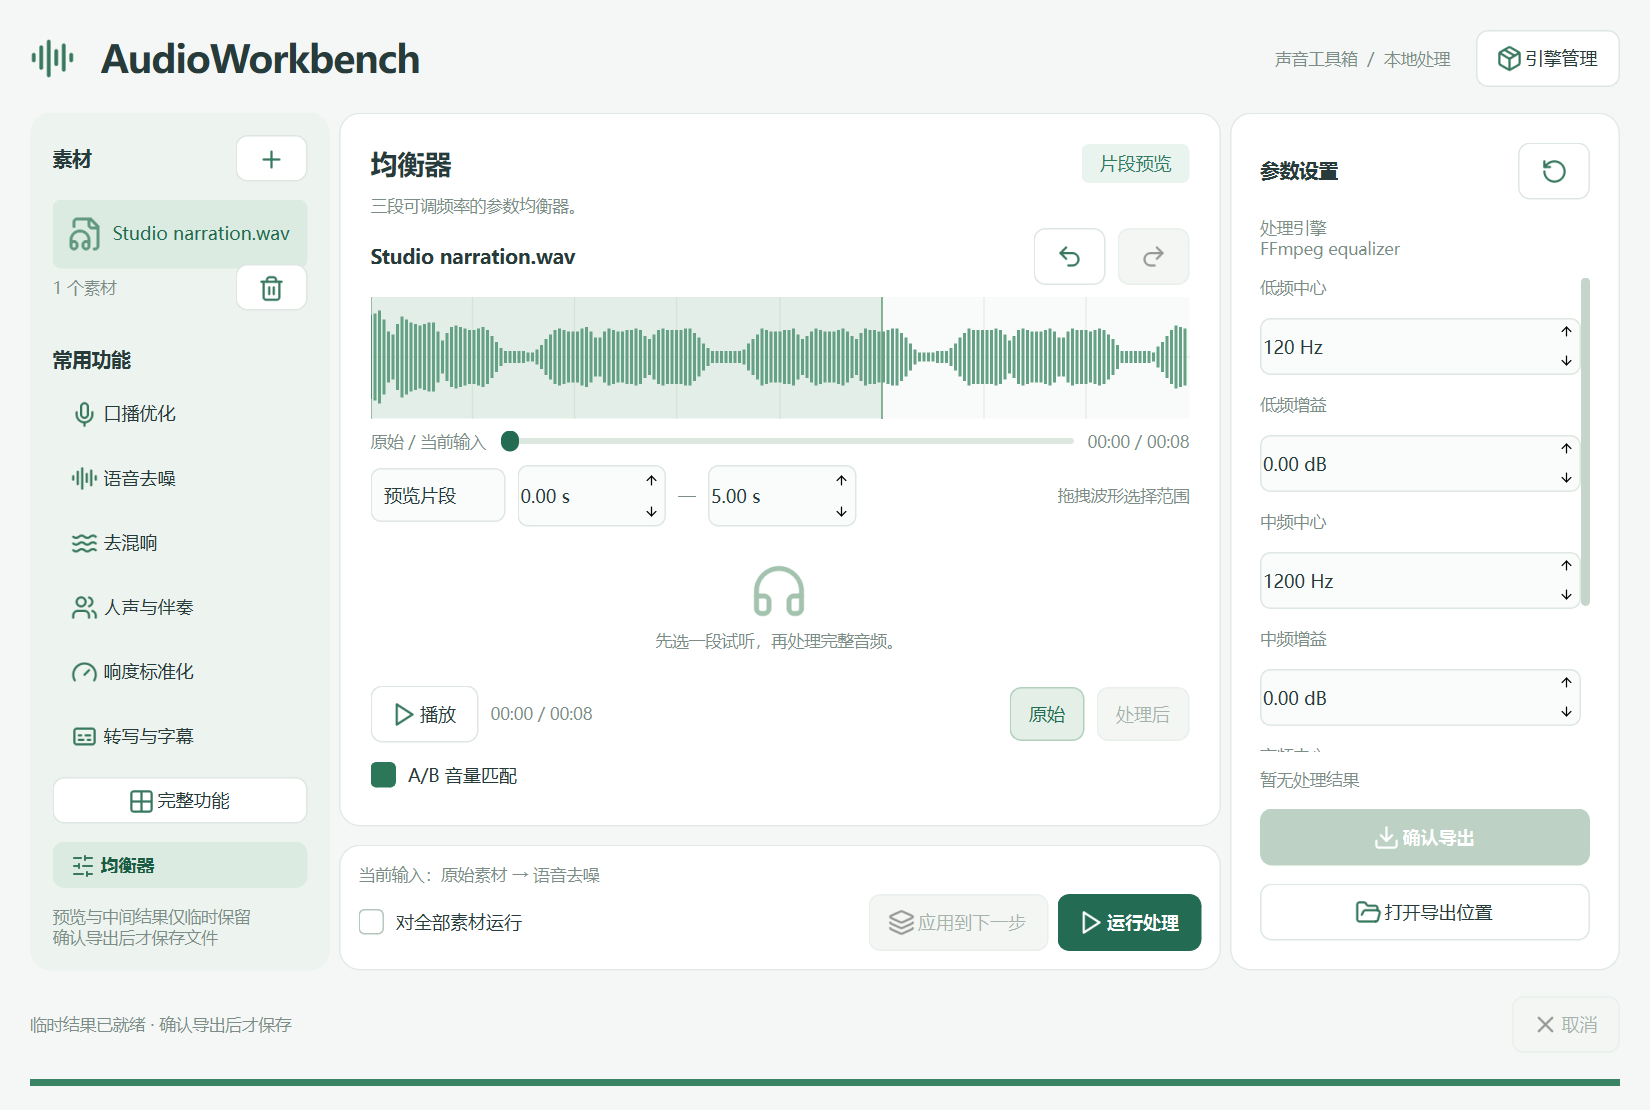
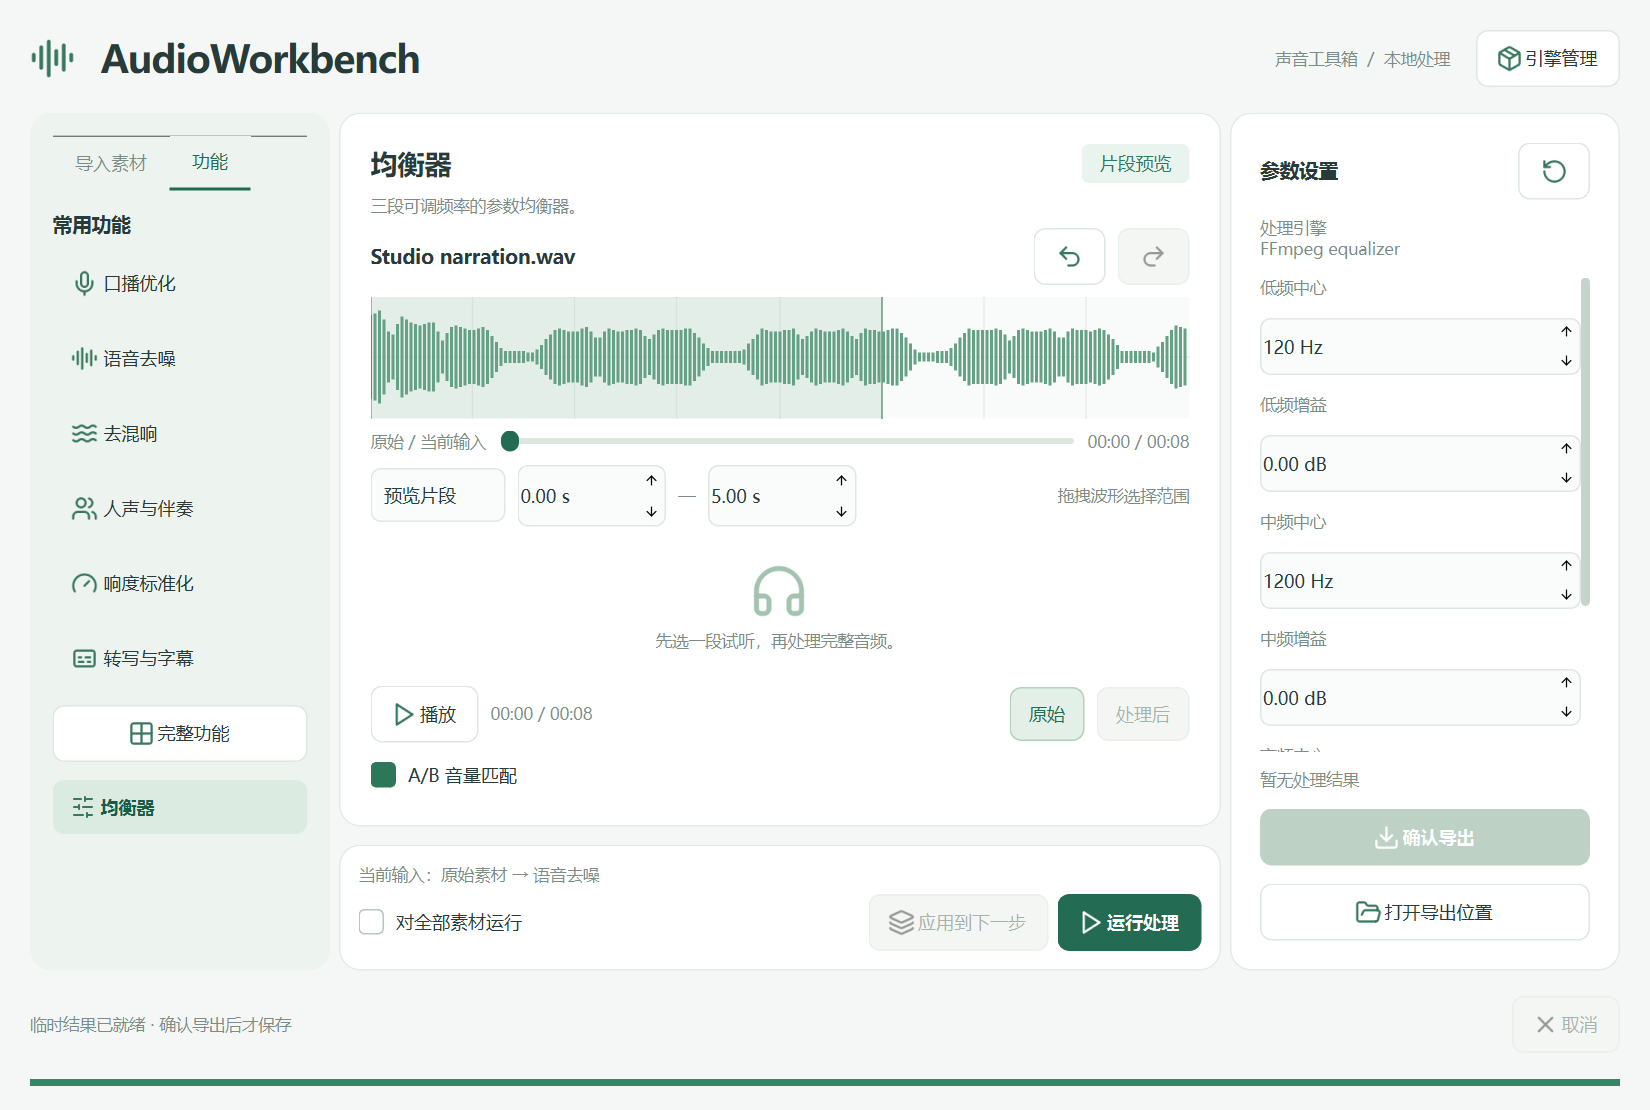
Separate material and tool navigation into tabs and add Windows installer

diff --git a/audioworkbench/desktop.py b/audioworkbench/desktop.py
@@ -6,7 +6,7 @@ from PySide6.QtGui import QPixmap,QDesktopServices,QPalette,QColor
 from PySide6.QtMultimedia import QAudioOutput,QMediaPlayer
 from PySide6.QtWidgets import (QMainWindow,QWidget,QVBoxLayout,QHBoxLayout,QLabel,QListWidget,QListWidgetItem,
     QSplitter,QComboBox,QDoubleSpinBox,QCheckBox,QProgressBar,QFileDialog,QMessageBox,QScrollArea,
-    QStackedWidget,QPlainTextEdit,QTableWidget,QTableWidgetItem,QHeaderView,QAbstractItemView,QAbstractSpinBox,QApplication)
+    QStackedWidget,QPlainTextEdit,QTableWidget,QTableWidgetItem,QHeaderView,QAbstractItemView,QAbstractSpinBox,QApplication,QTabWidget)
 from .catalog import BY_ID,COMMON
 from .engine import Runner,Cancelled
 from .session import Session
@@ -47,17 +47,20 @@ class MainWindow(QMainWindow):
         self.models_btn=btn('引擎管理',lambda:ModelsDialog(self).exec(),'package'); header.addWidget(self.models_btn); outer.addLayout(header)
         self.splitter=QSplitter(Qt.Horizontal); self.splitter.setChildrenCollapsible(False); outer.addWidget(self.splitter,1)
         sidebar,sl=card('sidebar',15); sidebar.setMinimumWidth(200); sidebar.setMaximumWidth(250); self.splitter.addWidget(sidebar)
-        row=QHBoxLayout(); row.addWidget(label('素材','section')); row.addStretch(); self.add_btn=btn('',self.add_files,'plus'); self.add_btn.setToolTip('导入音频 / 视频'); row.addWidget(self.add_btn); sl.addLayout(row)
-        self.files=QListWidget(); self.files.setMinimumHeight(90); self.files.setMaximumHeight(160); self.files.setDragDropMode(QAbstractItemView.InternalMove)
-        self.files.currentItemChanged.connect(self.asset_changed); self.files.model().rowsMoved.connect(self.invalidate); sl.addWidget(self.files)
+        self.sidebar_tabs=QTabWidget(); self.sidebar_tabs.setDocumentMode(True); sl.addWidget(self.sidebar_tabs)
+        material_page=QWidget(); ml=QVBoxLayout(material_page); ml.setContentsMargins(0,14,0,0); ml.setSpacing(12)
+        self.sidebar_tabs.addTab(material_page,'导入素材')
+        self.add_btn=btn('导入音频 / 视频',self.add_files,'plus'); ml.addWidget(self.add_btn)
+        self.files=QListWidget(); self.files.setMinimumHeight(90); self.files.setDragDropMode(QAbstractItemView.InternalMove)
+        self.files.currentItemChanged.connect(self.asset_changed); self.files.model().rowsMoved.connect(self.invalidate); ml.addWidget(self.files,1)
         row=QHBoxLayout(); self.file_count=label('拖入素材即可开始','muted'); row.addWidget(self.file_count); row.addStretch()
-        self.remove_btn=btn('',self.remove_asset,'trash-2'); self.remove_btn.setToolTip('移除素材及临时结果'); row.addWidget(self.remove_btn); sl.addLayout(row)
-        sl.addSpacing(12); sl.addWidget(label('常用功能','section')); self.nav={}
+        self.remove_btn=btn('',self.remove_asset,'trash-2'); self.remove_btn.setToolTip('移除素材及临时结果'); row.addWidget(self.remove_btn); ml.addLayout(row)
+        function_page=QWidget(); fl=QVBoxLayout(function_page); fl.setContentsMargins(0,14,0,0); fl.setSpacing(12)
+        self.sidebar_tabs.addTab(function_page,'功能'); fl.addWidget(label('常用功能','section')); self.nav={}
         for key in COMMON:
-            tool=BY_ID[key]; b=btn(tool.title,lambda checked=False,k=key:self.choose_tool(k),tool.icon); b.setObjectName('nav'); b.setCheckable(True); self.nav[key]=b; sl.addWidget(b)
-        self.more_btn=btn('完整功能',self.show_features,'grid-2x2'); sl.addWidget(self.more_btn)
-        self.extra_nav=btn('',self.show_features); self.extra_nav.setObjectName('nav'); self.extra_nav.hide(); sl.addWidget(self.extra_nav)
-        sl.addStretch(); note=label('预览与中间结果仅临时保留\n确认导出后才保存文件','muted'); note.setWordWrap(True); sl.addWidget(note)
+            tool=BY_ID[key]; b=btn(tool.title,lambda checked=False,k=key:self.choose_tool(k),tool.icon); b.setObjectName('nav'); b.setCheckable(True); self.nav[key]=b; fl.addWidget(b)
+        self.more_btn=btn('完整功能',self.show_features,'grid-2x2'); fl.addWidget(self.more_btn)
+        self.extra_nav=btn('',self.show_features); self.extra_nav.setObjectName('nav'); self.extra_nav.hide(); fl.addWidget(self.extra_nav); fl.addStretch()
         center=QWidget(); cl=QVBoxLayout(center); cl.setContentsMargins(7,0,7,0); cl.setSpacing(12); self.splitter.addWidget(center)
         workspace,wl=card(margins=20); wl.setSpacing(8); cl.addWidget(workspace,1)
         heading=QHBoxLayout(); self.tool_title=label('','heading'); heading.addWidget(self.tool_title); heading.addStretch(); self.scope_badge=label('未导入素材','badge'); heading.addWidget(self.scope_badge); wl.addLayout(heading)
@@ -94,7 +97,7 @@ class MainWindow(QMainWindow):
         self.engine_label=label('','muted'); self.engine_label.setWordWrap(True); rl.addWidget(self.engine_label); self.param_scroll=QScrollArea(); self.param_scroll.setWidgetResizable(True); self.param_scroll.setHorizontalScrollBarPolicy(Qt.ScrollBarAlwaysOff); rl.addWidget(self.param_scroll,1)
         self.result_state=label('暂无处理结果','muted'); self.result_state.setWordWrap(True); rl.addWidget(self.result_state); self.export_btn=btn('确认导出',self.export,'download',True); rl.addWidget(self.export_btn)
         self.open_btn=btn('打开导出位置',self.open_export,'folder-open'); self.open_btn.hide(); rl.addWidget(self.open_btn); self.splitter.setSizes([215,760,290])
-        footer=QHBoxLayout(); self.busy_indicator=BusyIndicator(); footer.addWidget(self.busy_indicator); self.status=label('就绪 · 本机处理，原文件保持不变','muted'); footer.addWidget(self.status,1); self.cancel_btn=btn('取消',self.cancel_task,'x'); self.cancel_btn.setEnabled(False); footer.addWidget(self.cancel_btn); outer.addLayout(footer)
+        footer=QHBoxLayout(); self.busy_indicator=BusyIndicator(); footer.addWidget(self.busy_indicator); self.status=label('','muted'); footer.addWidget(self.status,1); self.cancel_btn=btn('取消',self.cancel_task,'x'); self.cancel_btn.setEnabled(False); footer.addWidget(self.cancel_btn); outer.addLayout(footer)
         self.progress=QProgressBar(); self.progress.setRange(0,100); self.progress.setValue(0); outer.addWidget(self.progress); self.choose_tool('podcast'); self.refresh_buttons()
 
     @property

diff --git a/tests/gui_toolbox.py b/tests/gui_toolbox.py
@@ -73,7 +73,8 @@ with tempfile.TemporaryDirectory() as temp:
     output=ROOT/'docs'; output.mkdir(exist_ok=True); QTest.qWait(200)
     assert w.result_wave.mapToGlobal(QPoint(0,w.result_wave.height())).y() <= w.play.mapToGlobal(QPoint(0,0)).y(), 'waveform overlaps playback controls'
     assert w.wave.mapToGlobal(QPoint(0,w.wave.height())).y() <= w.range.mapToGlobal(QPoint(0,0)).y(), 'waveform overlaps range controls'
-    w.grab().save(str(output/'workspace.png'))
+    w.sidebar_tabs.setCurrentIndex(0); app.processEvents(); w.grab().save(str(output/'materials.png'))
+    w.sidebar_tabs.setCurrentIndex(1); app.processEvents(); w.grab().save(str(output/'workspace.png'))
     panel=FeaturePanel(w); panel.show(); app.processEvents(); panel.grab().save(str(output/'features.png'))
     panel.search.setText('去噪'); app.processEvents(); assert any(tile.isVisible() and tool.id=='denoise' for tool,tile in panel.tiles)
     assert all(not tile.isVisible() or '去噪' in tool.title+tool.description+tool.engine for tool,tile in panel.tiles)

diff --git a/tests/test_ui_updates.py b/tests/test_ui_updates.py
@@ -16,7 +16,15 @@ def until(fn):
     assert fn()
 with tempfile.TemporaryDirectory() as temp:
     p=Path(temp)/'tone.wav'; sf.write(p,np.sin(np.arange(48000*6)*2*np.pi*220/48000)*.1,48000)
+    assert w.sidebar_tabs.count()==2 and w.sidebar_tabs.tabText(0)=='导入素材'
+    assert w.status.text()=='' and w.add_btn.isVisible() and not w.more_btn.isVisible()
     w.add_paths([str(p)]); until(lambda:not w.busy)
+    asset_id=w.asset.id
+    w.sidebar_tabs.setCurrentIndex(1); app.processEvents()
+    assert w.more_btn.isVisible() and not w.files.isVisible() and w.asset.id==asset_id
+    w.sidebar_tabs.setCurrentIndex(0); app.processEvents()
+    assert w.files.count()==1 and w.asset.id==asset_id
+    w.sidebar_tabs.setCurrentIndex(1)
     panel=FeaturePanel(w)
     assert all(tile.parentWidget()==panel.container and not tile.isWindow() for _,tile in panel.tiles)
     for _ in range(3):

diff --git a/scripts/build_installer.py b/scripts/build_installer.py
@@ -1,0 +1,12 @@
+"""Compile the per-user Windows installer using Inno Setup 6 or newer."""
+import os,sys,shutil,subprocess
+from pathlib import Path
+ROOT=Path(__file__).resolve().parents[1]
+candidates=[os.environ.get('ISCC'),shutil.which('ISCC'),str(ROOT/'test-artifacts/innosetup/ISCC.exe')]
+for base in ('PROGRAMFILES','PROGRAMFILES(X86)','LOCALAPPDATA'):
+    for folder in ('Inno Setup 7','Inno Setup 6','Programs/Inno Setup 7','Programs/Inno Setup 6'):
+        candidates.append(str(Path(os.environ.get(base,''))/folder/'ISCC.exe'))
+compiler=next((p for p in candidates if p and Path(p).is_file()),None)
+if not compiler: raise SystemExit('Install Inno Setup 6+ or set ISCC to ISCC.exe')
+if not (ROOT/'dist/AudioWorkbench/AudioWorkbench.exe').is_file(): raise SystemExit('Build the portable app first')
+subprocess.run([compiler,str(ROOT/'scripts/installer.iss')],cwd=ROOT,check=True)

diff --git a/README.md b/README.md
@@ -2,15 +2,36 @@
 
 原生 Windows 桌面 GUI，PySide6 实现。37 项文件音频工具，统一青绿线性图标，支持片段预览与完整音频处理。无需浏览器或付费 API。
 
+## 下载与安装 · v1.1.0
+
+下载地址：[GitHub Releases](https://github.com/NaGeShuDai/AudioWorkbench/releases/tag/v1.1.0)。
+
+| 文件 | 使用方式 |
+|---|---|
+| `AudioWorkbench-1.1.0-Setup-x64.exe` | 安装版，双击按向导安装；无需管理员权限，默认安装到当前用户的 LocalAppData/Programs/AudioWorkbench，提供开始菜单入口、可选桌面快捷方式与卸载入口 |
+| `AudioWorkbench-v1.1.0-Windows-x64.zip` | 便携版，完整解压后运行文件夹中的 AudioWorkbench.exe |
+| `SHA256SUMS.txt` | 下载文件的 SHA-256 校验值 |
+
+安装版与便携版功能相同，均无需预装 Python。支持 Windows 10/11 x64。安装版升级可安装到原目录；卸载移除程序和快捷方式，保留按需下载的引擎与模型。若不再需要，可在退出并卸载后自行删除安装目录中的 `.engines`、`models` 和 `bin`。用户确认导出的文件不会被卸载程序删除。
+
+### 本次更新
+
+- 移除左侧的临时保存说明及底部默认“就绪”说明文字；处理进度、错误及取消提示继续正常显示。
+- 左侧拆分为“导入素材”和“功能”两个选项卡；切换不影响当前素材、参数、处理结果和播放。
+- 素材页提供导入、素材列表、排序和移除；功能页提供常用工具和完整功能面板。
+- 提供便携版及安装版，保留处理动画、上下双播放进度条和显式确认导出机制。
+
 ## Windows 便携版
 
-在 Releases 下载 `AudioWorkbench-v1.0.0-Windows-x64.zip`，完整解压到可写目录，双击 `AudioWorkbench.exe`。无需预装 Python。请保留同目录的 DLL、assets 和其他文件，不要只拷贝 EXE。
+在 Releases 下载 `AudioWorkbench-v1.1.0-Windows-x64.zip`，完整解压到可写目录，双击 `AudioWorkbench.exe`。无需预装 Python。请保留同目录的 DLL、assets 和其他文件，不要只拷贝 EXE。
 
 基础工具内置；AI 环境、Python 3.11 和模型在「引擎管理」按需下载，下载需要网络，可能占用数 GB。模型不包含在压缩包中。应用未进行商业代码签名。
 
 上方进度条对应原始 / 当前输入，下方对应处理结果，支持拖动与键盘定位，拖动保留播放或暂停状态。预览结果的下方时间从 0 开始，长度为所选片段。处理期间底部旋转指示器持续动画，取消或结束后停止。
 
-![工作区](docs/workspace.png)
+![功能选项卡](docs/workspace.png)
+
+![导入素材选项卡](docs/materials.png)
 
 ## 从源码启动
 
@@ -20,7 +41,7 @@
 
 ## 三栏操作
 
-- **左侧**：导入素材、拖动调整素材顺序、六个常用功能。点击「完整功能」打开 37 项图标工具面板，可按类别和关键词筛选。
+- **左侧**：「导入素材」页导入、选择、排序或移除音频；「功能」页选择常用工具，点击「完整功能」打开 37 项工具面板，可按类别和关键词筛选。
 - **中间**：当前素材、输入音轨选择、拖拽波形选区、片段 / 完整范围、原音与处理结果试听。分离工具显示音轨选择；转写显示可编辑表格；频谱与响度显示各自的分析视图。
 - **右侧**：仅显示当前工具的模型和参数，底部「确认导出」。
 
@@ -126,6 +147,8 @@ tests/                          信号、生命周期、导出及 GUI 检查
 uv pip install --python .venv/Scripts/python.exe pyinstaller==6.22.3 pillow
 .venv/Scripts/python.exe scripts/create_icon.py
 .venv/Scripts/python.exe scripts/build_windows.py
+# 安装 Inno Setup 6+，或设置 ISCC 环境变量后：
+.venv/Scripts/python.exe scripts/build_installer.py
 .venv/Scripts/python.exe tests/test_ui_updates.py
 .venv/Scripts/python.exe tests/gui_toolbox.py
 .venv/Scripts/python.exe -m unittest tests/test_toolbox.py

diff --git a/docs/VALIDATION.md b/docs/VALIDATION.md
@@ -76,3 +76,10 @@ PyInstaller 6.22.3 便携构建，2026-11-01。从系统临时目录启动，PAT
 - EXE 自检退出码为 0，测试音频清理完成；应用图标已嵌入。
 - 构建环境隔离 PATH，避免误收集其他工具的同名 ICU DLL。
 - AI 引擎在源码环境的测试见上文；便携版不包含已安装的 AI 环境或模型，未重新下载所有模型做整套便携版推理测试。
+
+## v1.1.0 选项卡改版
+
+- 移除截图指定的左侧说明及底部初始就绪文字；处理动画、运行状态和错误仍保留。
+- 两个原生选项卡在同一侧栏切换，素材列表和功能导航分开显示。
+- GUI 回归验证切换前后素材 ID、列表及当前结果不丢失；完整功能面板、处理、进度条和导出测试通过。
+- 检查了普通窗口与 1100×740 最小窗口的截图，选项卡与控件无重叠。
